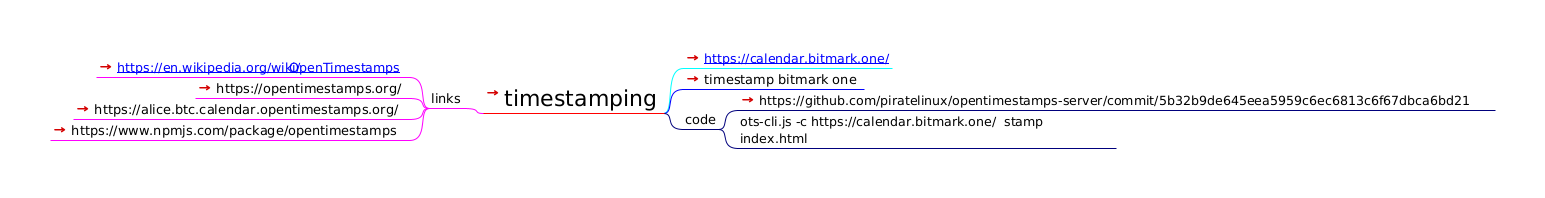
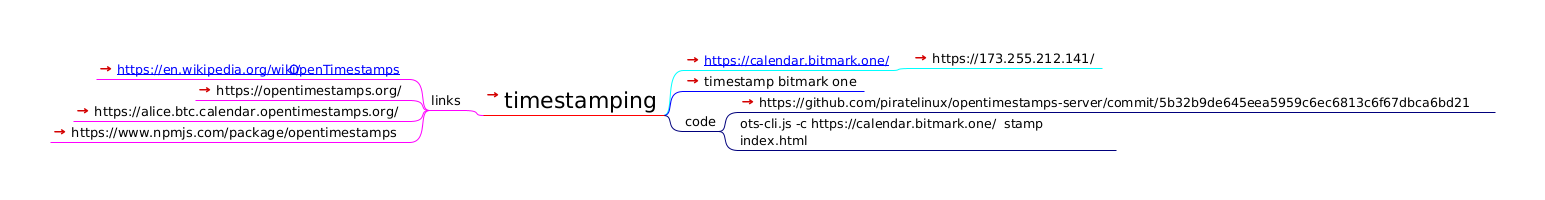
add calendar server

Changed region(s): [[0.0311, 0.2424, 0.9631, 0.7576]]

diff --git a/timestamping.html b/timestamping.html
@@ -23,22 +23,23 @@
                    };
                };
           
-          --></script></head><body><h1>timestamping</h1><div style="width:96%;  padding:2%;  margin-bottom:10px;  border: 0px;  text-align:center;  vertical-align:center;"><img src="timestamping.html_files/image.png" style="margin-bottom:10px; &#9;border: 0px; &#9;text-align:center; &#9;vertical-align:center;" alt="Imagemap" usemap="#fm_imagemap" /></div><map name="fm_imagemap" id="fm_imagemap"><area shape="rect" href="index.html" alt="timestamping" title="timestamping" coords="483,85,664,113" />
-<area shape="rect" href="https://calendar.bitmark.one/" alt="https://calendar.bitmark.one/" title="https://calendar.bitmark.one/" coords="683,50,892,68" />
-<area shape="rect" href="http://timestamp.bitmark.one/" alt="timestamp bitmark one" title="timestamp bitmark one" coords="683,71,864,89" />
-<area shape="rect" href="#FMID_357812322FM" alt="code" title="code" coords="683,111,719,129" />
-<area shape="rect" href="https://github.com/piratelinux/opentimestamps-server/commit/5b32b9de645eea5959c6ec6813c6f67dbca6bd21" alt="https://github.com/piratelinux/opentimes ..." title="https://github.com/piratelinux/opentimes ..." coords="738,92,1495,110" />
-<area shape="rect" href="#FMID_1549885681FM" alt="ots-cli.js -c https://calendar.bitmark.o ..." title="ots-cli.js -c https://calendar.bitmark.o ..." coords="738,113,1116,148" />
-<area shape="rect" href="#FMID_1095487633FM" alt="links" title="links" coords="429,90,464,108" />
-<area shape="rect" href="https://en.wikipedia.org/wiki/OpenTimestamps" alt="https://en.wikipedia.org/wiki/OpenTimest ..." title="https://en.wikipedia.org/wiki/OpenTimest ..." coords="96,59,410,77" />
-<area shape="rect" href="https://opentimestamps.org/" alt="https://opentimestamps.org/" title="https://opentimestamps.org/" coords="195,80,410,98" />
-<area shape="rect" href="https://alice.btc.calendar.opentimestamps.org/" alt="https://alice.btc.calendar.opentimestamp ..." title="https://alice.btc.calendar.opentimestamp ..." coords="73,101,410,119" />
-<area shape="rect" href="https://www.npmjs.com/package/opentimestamps" alt="https://www.npmjs.com/package/opentimest ..." title="https://www.npmjs.com/package/opentimest ..." coords="50,122,410,140" />
+          --></script></head><body><h1>timestamping</h1><div style="width:96%;  padding:2%;  margin-bottom:10px;  border: 0px;  text-align:center;  vertical-align:center;"><img src="timestamping.html_files/image.png" style="margin-bottom:10px; &#9;border: 0px; &#9;text-align:center; &#9;vertical-align:center;" alt="Imagemap" usemap="#fm_imagemap" /></div><map name="fm_imagemap" id="fm_imagemap"><area shape="rect" href="index.html" alt="timestamping" title="timestamping" coords="483,87,664,115" />
+<area shape="rect" href="https://calendar.bitmark.one/" alt="https://calendar.bitmark.one/" title="https://calendar.bitmark.one/" coords="683,52,892,70" />
+<area shape="rect" href="https://173.255.212.141/" alt="https://173.255.212.141/" title="https://173.255.212.141/" coords="911,50,1102,68" />
+<area shape="rect" href="http://timestamp.bitmark.one/" alt="timestamp bitmark one" title="timestamp bitmark one" coords="683,73,864,91" />
+<area shape="rect" href="#FMID_357812322FM" alt="code" title="code" coords="683,113,719,131" />
+<area shape="rect" href="https://github.com/piratelinux/opentimestamps-server/commit/5b32b9de645eea5959c6ec6813c6f67dbca6bd21" alt="https://github.com/piratelinux/opentimes ..." title="https://github.com/piratelinux/opentimes ..." coords="738,94,1495,112" />
+<area shape="rect" href="#FMID_1549885681FM" alt="ots-cli.js -c https://calendar.bitmark.o ..." title="ots-cli.js -c https://calendar.bitmark.o ..." coords="738,115,1116,150" />
+<area shape="rect" href="#FMID_1095487633FM" alt="links" title="links" coords="429,92,464,110" />
+<area shape="rect" href="https://en.wikipedia.org/wiki/OpenTimestamps" alt="https://en.wikipedia.org/wiki/OpenTimest ..." title="https://en.wikipedia.org/wiki/OpenTimest ..." coords="96,61,410,79" />
+<area shape="rect" href="https://opentimestamps.org/" alt="https://opentimestamps.org/" title="https://opentimestamps.org/" coords="195,82,410,100" />
+<area shape="rect" href="https://alice.btc.calendar.opentimestamps.org/" alt="https://alice.btc.calendar.opentimestamp ..." title="https://alice.btc.calendar.opentimestamp ..." coords="73,103,410,121" />
+<area shape="rect" href="https://www.npmjs.com/package/opentimestamps" alt="https://www.npmjs.com/package/opentimest ..." title="https://www.npmjs.com/package/opentimest ..." coords="50,124,410,142" />
 </map>
 
-<div class="node"><img src="timestamping.html_files/hide.png" class="hideshow" alt="hide" onClick="toggle(&quot;N65543&quot;)" id="imgN65543" /><a id="FMID_79302981FM" /><div class="nodecontent" style="color:#000000;font-size:142%;"><a href="index.html">timestamping</a> <a href="index.html"><img src="timestamping.html_files/ilink.png" alt="User Link" style="border-width:0" /></a></div><div class="content" id="N65543"><div class="node"><img src="timestamping.html_files/leaf.png" class="hideshow" alt="leaf" /><a id="FMID_1407307643FM" /><div class="nodecontent" style="color:#000000;font-size:83%;"><a href="https://calendar.bitmark.one/">
+<div class="node"><img src="timestamping.html_files/hide.png" class="hideshow" alt="hide" onClick="toggle(&quot;N65543&quot;)" id="imgN65543" /><a id="FMID_79302981FM" /><div class="nodecontent" style="color:#000000;font-size:142%;"><a href="index.html">timestamping</a> <a href="index.html"><img src="timestamping.html_files/ilink.png" alt="User Link" style="border-width:0" /></a></div><div class="content" id="N65543"><div class="node"><img src="timestamping.html_files/hide.png" class="hideshow" alt="hide" onClick="toggle(&quot;N66440&quot;)" id="imgN66440" /><a id="FMID_1407307643FM" /><div class="nodecontent" style="color:#000000;font-size:83%;"><a href="https://calendar.bitmark.one/">
     <a http-equiv="content-type" content="text/html; charset=utf-8" href="https://calendar.bitmark.one/" target="_blank" data-saferedirecturl="https://www.google.com/url?q=https://calendar.bitmark.one/&amp;source=gmail&amp;ust=1637061802430000&amp;usg=AOvVaw0kLKThnlyzbVzn6DM0b6f5">https://calendar.bitmark.one/</a>
-  </a> <a href="https://calendar.bitmark.one/"><img src="timestamping.html_files/ilink.png" alt="User Link" style="border-width:0" /></a></div></div><div class="node"><img src="timestamping.html_files/leaf.png" class="hideshow" alt="leaf" /><a id="FMID_1841841670FM" /><div class="nodecontent" style="color:#000000;font-size:83%;"><a href="http://timestamp.bitmark.one/">timestamp bitmark one</a> <a href="http://timestamp.bitmark.one/"><img src="timestamping.html_files/ilink.png" alt="User Link" style="border-width:0" /></a></div></div><div class="node"><img src="timestamping.html_files/hide.png" class="hideshow" alt="hide" onClick="toggle(&quot;N66536&quot;)" id="imgN66536" /><a id="FMID_357812322FM" /><div class="nodecontent" style="color:#000000;font-size:83%;">code</div><div class="content" id="N66536"><div class="node"><img src="timestamping.html_files/leaf.png" class="hideshow" alt="leaf" /><a id="FMID_1439654364FM" /><div class="nodecontent" style="color:#000000;font-size:83%;"><a href="https://github.com/piratelinux/opentimestamps-server/commit/5b32b9de645eea5959c6ec6813c6f67dbca6bd21">https://github.com/piratelinux/opentimestamps-server/commit/5b32b9de645eea5959c6ec6813c6f67dbca6bd21</a> <a href="https://github.com/piratelinux/opentimestamps-server/commit/5b32b9de645eea5959c6ec6813c6f67dbca6bd21"><img src="timestamping.html_files/ilink.png" alt="User Link" style="border-width:0" /></a></div></div><div class="node"><img src="timestamping.html_files/leaf.png" class="hideshow" alt="leaf" /><a id="FMID_1549885681FM" /><div class="nodecontent" style="color:#000000;font-size:83%;">ots-cli.js -c https://calendar.bitmark.one/  stamp index.html</div></div></div></div><div class="node"><img src="timestamping.html_files/hide.png" class="hideshow" alt="hide" onClick="toggle(&quot;N66646&quot;)" id="imgN66646" /><a id="FMID_1095487633FM" /><div class="nodecontent" style="color:#000000;font-size:83%;">links</div><div class="content" id="N66646"><div class="node"><img src="timestamping.html_files/leaf.png" class="hideshow" alt="leaf" /><a id="FMID_1133516913FM" /><div class="nodecontent" style="color:#000000;font-size:83%;"><a href="https://en.wikipedia.org/wiki/OpenTimestamps">
+  </a> <a href="https://calendar.bitmark.one/"><img src="timestamping.html_files/ilink.png" alt="User Link" style="border-width:0" /></a></div><div class="content" id="N66440"><div class="node"><img src="timestamping.html_files/leaf.png" class="hideshow" alt="leaf" /><a id="FMID_696743683FM" /><div class="nodecontent" style="color:#000000;font-size:83%;"><a href="https://173.255.212.141/">https://173.255.212.141/</a> <a href="https://173.255.212.141/"><img src="timestamping.html_files/ilink.png" alt="User Link" style="border-width:0" /></a></div></div></div></div><div class="node"><img src="timestamping.html_files/leaf.png" class="hideshow" alt="leaf" /><a id="FMID_1841841670FM" /><div class="nodecontent" style="color:#000000;font-size:83%;"><a href="http://timestamp.bitmark.one/">timestamp bitmark one</a> <a href="http://timestamp.bitmark.one/"><img src="timestamping.html_files/ilink.png" alt="User Link" style="border-width:0" /></a></div></div><div class="node"><img src="timestamping.html_files/hide.png" class="hideshow" alt="hide" onClick="toggle(&quot;N66573&quot;)" id="imgN66573" /><a id="FMID_357812322FM" /><div class="nodecontent" style="color:#000000;font-size:83%;">code</div><div class="content" id="N66573"><div class="node"><img src="timestamping.html_files/leaf.png" class="hideshow" alt="leaf" /><a id="FMID_1439654364FM" /><div class="nodecontent" style="color:#000000;font-size:83%;"><a href="https://github.com/piratelinux/opentimestamps-server/commit/5b32b9de645eea5959c6ec6813c6f67dbca6bd21">https://github.com/piratelinux/opentimestamps-server/commit/5b32b9de645eea5959c6ec6813c6f67dbca6bd21</a> <a href="https://github.com/piratelinux/opentimestamps-server/commit/5b32b9de645eea5959c6ec6813c6f67dbca6bd21"><img src="timestamping.html_files/ilink.png" alt="User Link" style="border-width:0" /></a></div></div><div class="node"><img src="timestamping.html_files/leaf.png" class="hideshow" alt="leaf" /><a id="FMID_1549885681FM" /><div class="nodecontent" style="color:#000000;font-size:83%;">ots-cli.js -c https://calendar.bitmark.one/  stamp index.html</div></div></div></div><div class="node"><img src="timestamping.html_files/hide.png" class="hideshow" alt="hide" onClick="toggle(&quot;N66683&quot;)" id="imgN66683" /><a id="FMID_1095487633FM" /><div class="nodecontent" style="color:#000000;font-size:83%;">links</div><div class="content" id="N66683"><div class="node"><img src="timestamping.html_files/leaf.png" class="hideshow" alt="leaf" /><a id="FMID_1133516913FM" /><div class="nodecontent" style="color:#000000;font-size:83%;"><a href="https://en.wikipedia.org/wiki/OpenTimestamps">
     <a http-equiv="content-type" content="text/html; charset=utf-8" href="https://en.wikipedia.org/wiki/OpenTimestamps" target="_blank" data-saferedirecturl="https://www.google.com/url?q=https://en.wikipedia.org/wiki/OpenTimestamps&amp;source=gmail&amp;ust=1637062959516000&amp;usg=AOvVaw1TmcNLhzNX61o49O31DfMi">https://en.wikipedia.org/wiki/<wbr />OpenTimestamps</a>
   </a> <a href="https://en.wikipedia.org/wiki/OpenTimestamps"><img src="timestamping.html_files/ilink.png" alt="User Link" style="border-width:0" /></a></div></div><div class="node"><img src="timestamping.html_files/leaf.png" class="hideshow" alt="leaf" /><a id="FMID_578519927FM" /><div class="nodecontent" style="color:#000000;font-size:83%;"><a href="https://opentimestamps.org/">https://opentimestamps.org/</a> <a href="https://opentimestamps.org/"><img src="timestamping.html_files/ilink.png" alt="User Link" style="border-width:0" /></a></div></div><div class="node"><img src="timestamping.html_files/leaf.png" class="hideshow" alt="leaf" /><a id="FMID_1608916888FM" /><div class="nodecontent" style="color:#000000;font-size:83%;"><a href="https://alice.btc.calendar.opentimestamps.org/">https://alice.btc.calendar.opentimestamps.org/</a> <a href="https://alice.btc.calendar.opentimestamps.org/"><img src="timestamping.html_files/ilink.png" alt="User Link" style="border-width:0" /></a></div></div><div class="node"><img src="timestamping.html_files/leaf.png" class="hideshow" alt="leaf" /><a id="FMID_1985104177FM" /><div class="nodecontent" style="color:#000000;font-size:83%;"><a href="https://www.npmjs.com/package/opentimestamps">https://www.npmjs.com/package/opentimestamps</a> <a href="https://www.npmjs.com/package/opentimestamps"><img src="timestamping.html_files/ilink.png" alt="User Link" style="border-width:0" /></a></div></div></div></div></div></div>
 </body></html>

diff --git a/timestamping.mm b/timestamping.mm
@@ -75,9 +75,9 @@
     <a http-equiv="content-type" content="text/html; charset=utf-8" href="https://calendar.bitmark.one/" target="_blank" data-saferedirecturl="https://www.google.com/url?q=https://calendar.bitmark.one/&amp;source=gmail&amp;ust=1637061802430000&amp;usg=AOvVaw0kLKThnlyzbVzn6DM0b6f5">https://calendar.bitmark.one/</a>
   </body>
 </html>
-
 </richcontent>
 <edge COLOR="#00ffff"/>
+<node TEXT="https://173.255.212.141/" ID="ID_696743683" CREATED="1636979052708" MODIFIED="1636979052708" LINK="https://173.255.212.141/"/>
 </node>
 <node TEXT="timestamp bitmark one" POSITION="right" ID="ID_1841841670" CREATED="1636980147524" MODIFIED="1636980182419" LINK="http://timestamp.bitmark.one/">
 <edge COLOR="#0000ff"/>
@@ -99,7 +99,6 @@
     <a http-equiv="content-type" content="text/html; charset=utf-8" href="https://en.wikipedia.org/wiki/OpenTimestamps" target="_blank" data-saferedirecturl="https://www.google.com/url?q=https://en.wikipedia.org/wiki/OpenTimestamps&amp;source=gmail&amp;ust=1637062959516000&amp;usg=AOvVaw1TmcNLhzNX61o49O31DfMi">https://en.wikipedia.org/wiki/<wbr/>OpenTimestamps</a>
   </body>
 </html>
-
 </richcontent>
 </node>
 <node TEXT="https://opentimestamps.org/" ID="ID_578519927" CREATED="1636980245427" MODIFIED="1636980245427" LINK="https://opentimestamps.org/"/>
